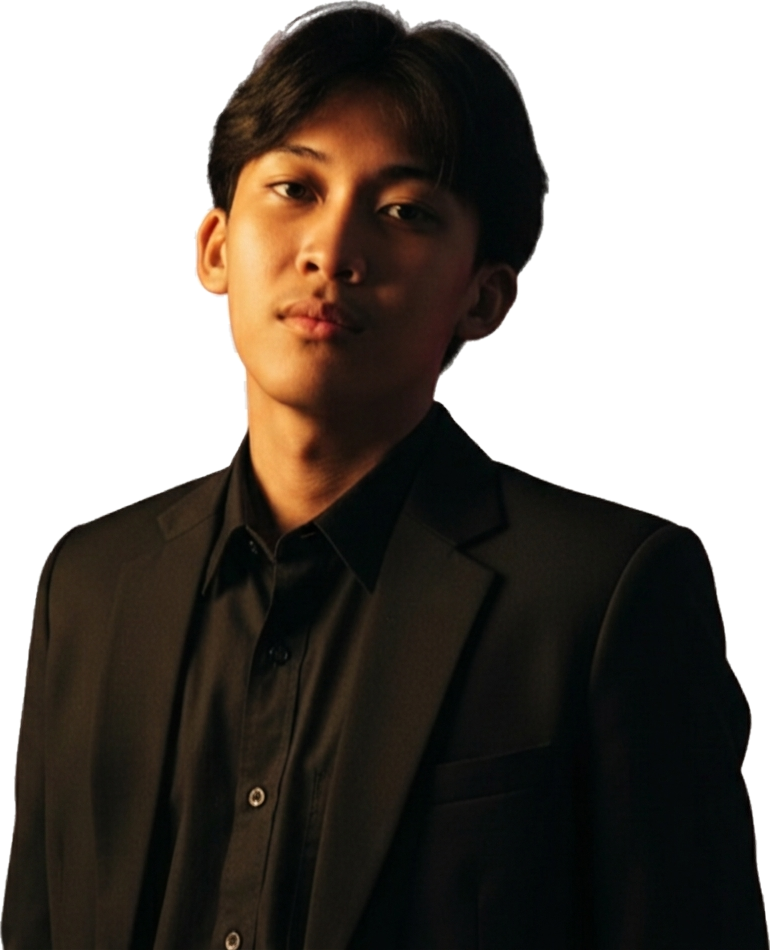
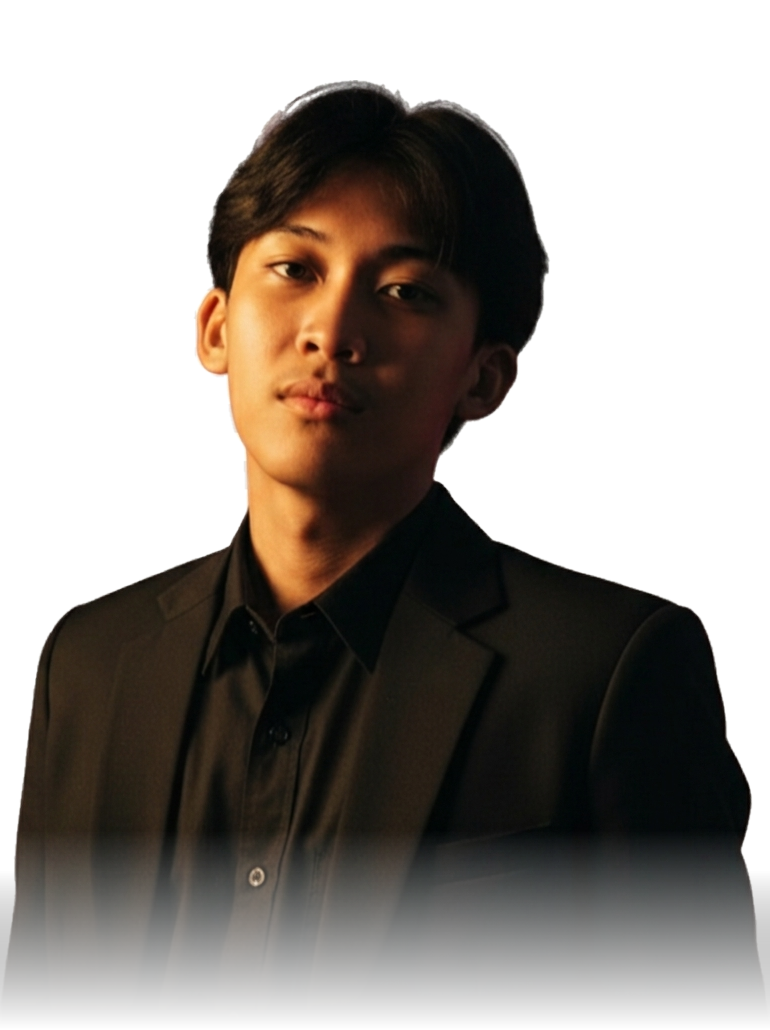
Ayusin size ng portrait para di maputol sa phone at desktop

diff --git a/src/components/Hero/Hero.css b/src/components/Hero/Hero.css
@@ -191,14 +191,13 @@
   position: relative;
   width: 100%;
   max-width: 360px;
-  height: 490px;
-  overflow: hidden;
+  height: 485px;
   display: flex;
   justify-content: center;
   align-items: flex-end;
-  /* Soft elliptic dissolve: solid center, dissolves smoothly outward and downward */
-  -webkit-mask-image: radial-gradient(ellipse 85% 80% at 50% 38%, rgba(0, 0, 0, 1) 56%, rgba(0, 0, 0, 0) 100%);
-  mask-image: radial-gradient(ellipse 85% 80% at 50% 38%, rgba(0, 0, 0, 1) 56%, rgba(0, 0, 0, 0) 100%);
+  /* Clean linear dissolve at bottom with completely unclipped headroom at top */
+  -webkit-mask-image: linear-gradient(to bottom, #000 0%, #000 78%, rgba(0, 0, 0, 0.6) 90%, transparent 100%);
+  mask-image: linear-gradient(to bottom, #000 0%, #000 78%, rgba(0, 0, 0, 0.6) 90%, transparent 100%);
 }
 
 .portrait-img {
@@ -206,22 +205,17 @@
   height: 100%;
   object-fit: contain;
   object-position: bottom center;
-  transform: scale(1.02);
-  transition: transform 0.35s ease;
-  filter: contrast(1.04) brightness(1.01);
+  transform: none;
+  transition: transform 0.35s ease, filter 0.35s ease;
+  filter: contrast(1.03) brightness(1.01);
 }
 
 .portrait-atmosphere-stage:hover .portrait-img {
-  transform: scale(1.05);
+  transform: translateY(-4px);
 }
 
 .portrait-ground-fade {
-  position: absolute;
-  bottom: 0;
-  left: 0;
-  right: 0;
-  height: 60px;
-  pointer-events: none;
+  display: none;
 }
 
 /* ----------------------------------------------------
@@ -424,19 +418,29 @@
   }
 
   .portrait-atmosphere-stage {
-    max-width: 230px;
+    max-width: 240px;
+  }
+
+  .portrait-backlight {
+    width: 220px;
+    height: 220px;
+    top: 10%;
   }
 
   .portrait-mask-wrapper {
-    max-width: 230px;
-    height: 260px;
-    -webkit-mask-image: radial-gradient(ellipse 85% 80% at 50% 38%, rgba(0, 0, 0, 1) 55%, rgba(0, 0, 0, 0) 100%);
-    mask-image: radial-gradient(ellipse 85% 80% at 50% 38%, rgba(0, 0, 0, 1) 55%, rgba(0, 0, 0, 0) 100%);
+    max-width: 240px;
+    height: 310px;
+    -webkit-mask-image: linear-gradient(to bottom, #000 0%, #000 76%, rgba(0, 0, 0, 0.6) 88%, transparent 100%);
+    mask-image: linear-gradient(to bottom, #000 0%, #000 76%, rgba(0, 0, 0, 0.6) 88%, transparent 100%);
   }
 
   .portrait-img {
     object-position: bottom center;
-    transform: scale(1.02);
+    transform: none;
+  }
+
+  .portrait-atmosphere-stage:hover .portrait-img {
+    transform: none;
   }
 
   /* 2. Text Content Second on Mobile */
@@ -533,12 +537,12 @@
   }
 
   .portrait-atmosphere-stage {
-    max-width: 210px;
+    max-width: 215px;
   }
 
   .portrait-mask-wrapper {
-    max-width: 210px;
-    height: 240px;
+    max-width: 215px;
+    height: 280px;
   }
 
   .tech-icons-cluster {
